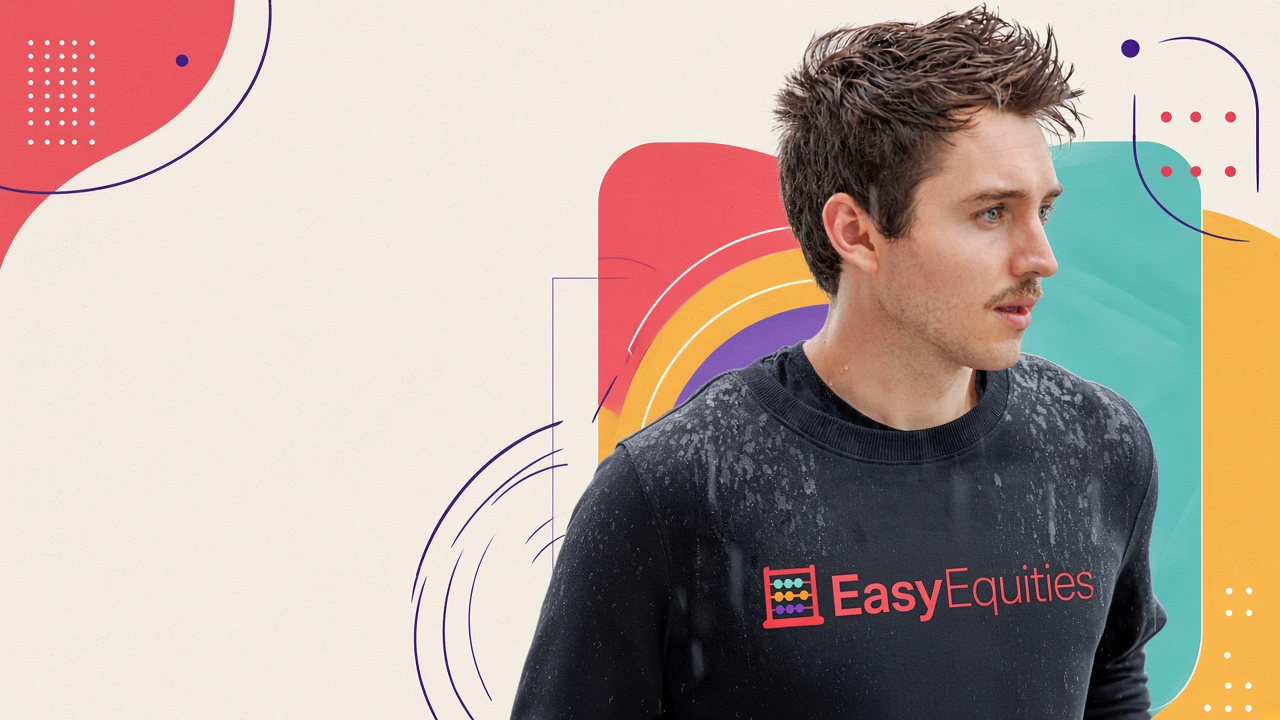
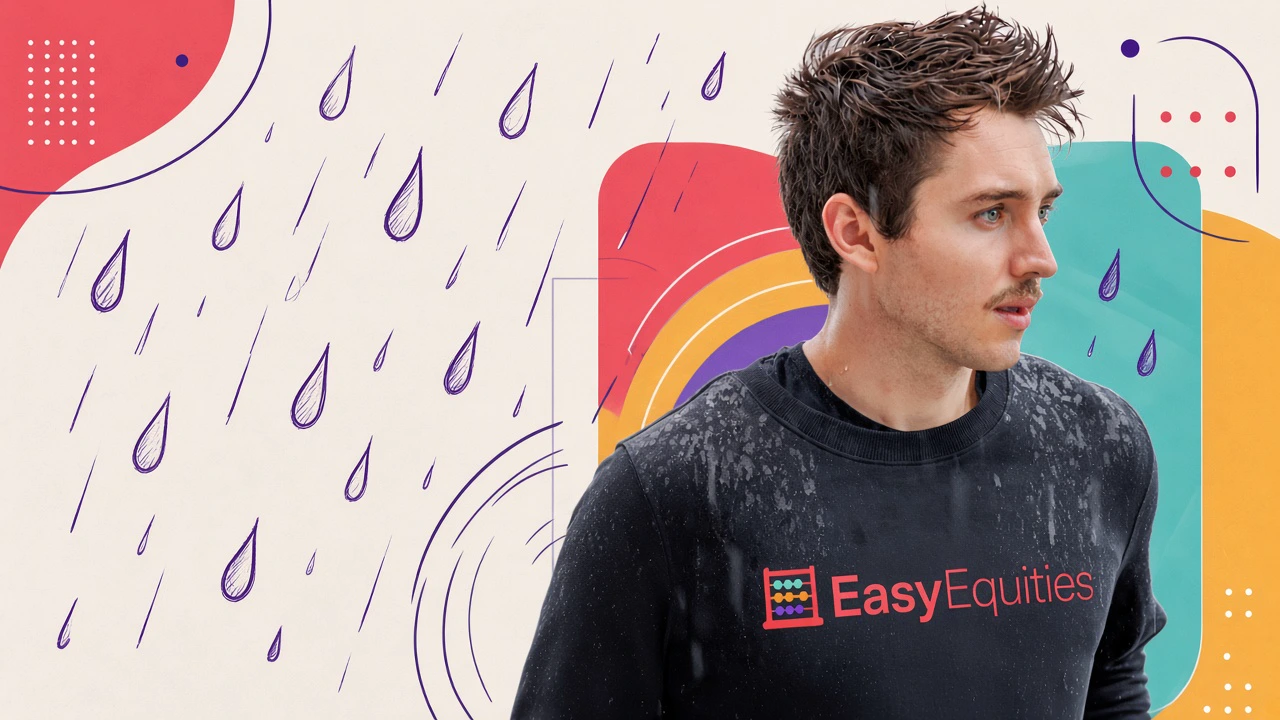
Add Purple Rain artwork to Easy essay

diff --git a/index.html b/index.html
@@ -107,7 +107,7 @@
               <div class="post-card__body">
                 <p class="post-card__meta">24 November 2026</p>
                 <h3 class="post-card__title">Still Early</h3>
-                <p class="post-card__excerpt">Why the new Easy is more than a rebrand, and why the numbers and the way we built it make me more bullish than ever.</p>
+                <p class="post-card__excerpt">My 5 years at EasyEquities and why I’m more bullish than ever.</p>
               </div>
             </a>
           </li>

diff --git a/content/posts/still-early.md b/content/posts/still-early.md
@@ -2,7 +2,7 @@
 title: Still Early
 slug: still-early
 date: "2026-11-24"
-description: Why the new Easy is more than a rebrand, and why the numbers and the way we built it make me more bullish than ever.
+description: My 5 years at EasyEquities and why I’m more bullish than ever.
 thumbnail: /images/posts/still-early.webp
 ogImage: /images/og/still-early.jpg
 tags:
@@ -18,7 +18,9 @@ That is fine.
 
 Change has a way of making everyone a design critic.
 
-I have worked close enough to this business, its clients and its technology to know where the difficult parts live.
+I have spent five years inside this business, close to its clients and its technology.
+
+Long enough to know where the difficult parts live.
 
 And I have never been more bullish on EasyEquities.
 
